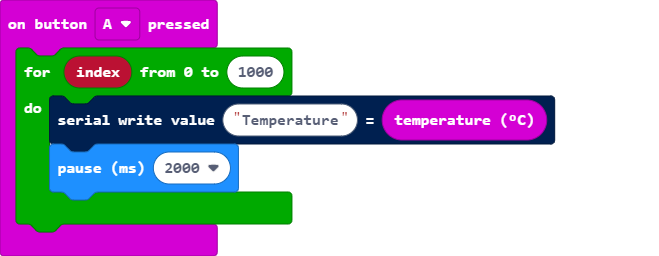
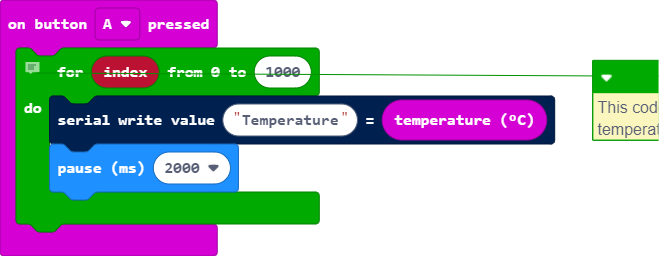
Update main.blocks, main.ts

Changed region(s): [[0.0303, 0.1562, 1.0, 0.5625], [0.4249, 0.7188, 0.4856, 0.9062]]

diff --git a/main.ts b/main.ts
@@ -1,4 +1,5 @@
 input.onButtonPressed(Button.A, function () {
+    // This code gets temperature values and stores the values using the "serial" block.
     for (let index = 0; index <= 1000; index++) {
         serial.writeValue("Temperature", input.temperature())
         basic.pause(2000)
